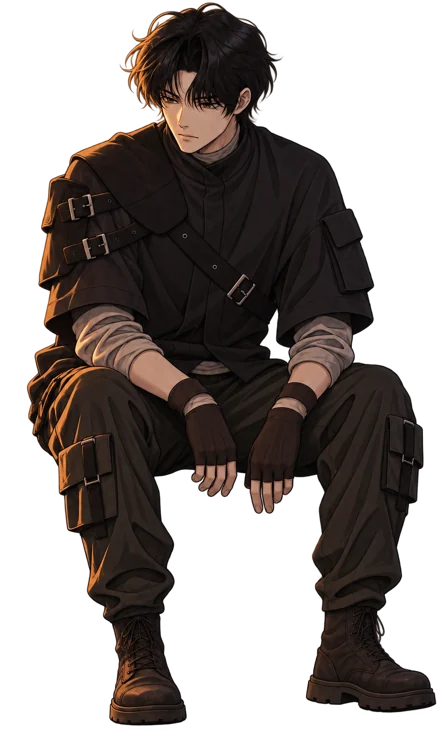
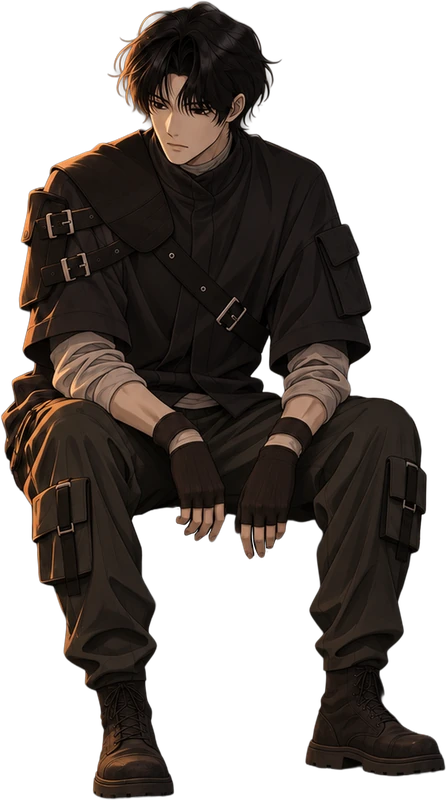
Show both survivors at their respective shelter seats

diff --git a/ohome-0.1.0-2026-10-08/public/ashline/compact.css b/ohome-0.1.0-2026-10-08/public/ashline/compact.css
@@ -86,7 +86,6 @@
 .district-map > .ash-toxic-fog.active { opacity: .6 }
 
 .shelter-art .shelter-resident {
-  opacity: 0; /* Hidden until the final character artwork is ready. */
   position: absolute;
   left: 13%;
   bottom: 9%;
@@ -96,5 +95,9 @@
   pointer-events: none;
   filter: brightness(.87) drop-shadow(1px 2px 2px #100c0966);
 }
-.shelter-art.scene-full .shelter-resident { left: 16%; bottom: 12%; height: 55% }
-.shelter-art.scene-empty .shelter-resident { left: 15%; bottom: 10%; height: 51% }
+.shelter-art.scene-full .resident-A { left: 16%; bottom: 12%; height: 55% }
+.shelter-art.scene-empty .resident-A { left: 15%; bottom: 10%; height: 51% }
+
+.shelter-art .resident-B { left: 22%; bottom: 15%; height: 49%; z-index: 85 }
+.shelter-art.scene-full .resident-B { left: 24%; bottom: 17%; height: 48% }
+.shelter-art.scene-empty .resident-B { left: 23%; bottom: 16%; height: 46% }
